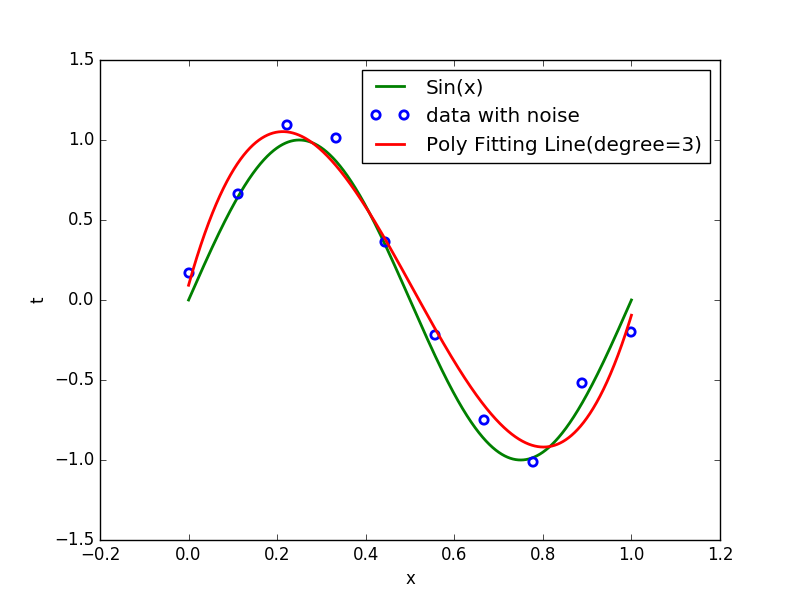
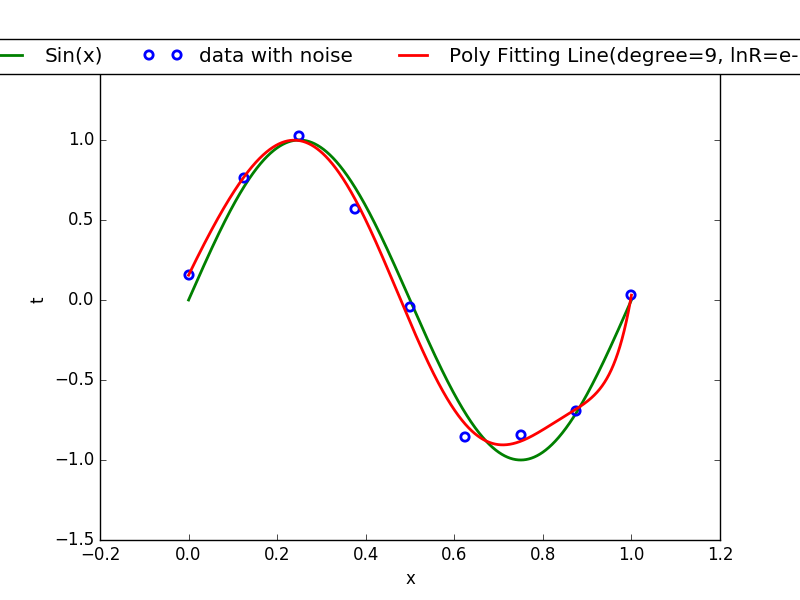
box_to_anchor
这个参数是用来调整存放示例说明与整个图表的相对位置，同时详细可以参照官网(http://matplotlib.org/1.5.1/api/pyp
lot_api.html#matplotlib.pyplot.legend)说明

Changed region(s): [[0.0, 0.06, 1.0, 0.42], [0.4062, 0.27, 0.8125, 0.78], [0.2188, 0.42, 0.25, 0.48]]

diff --git a/hw1.py b/hw1.py
@@ -48,7 +48,7 @@ po = np.poly1d(weight)          # 产生一个参数为weight的多项式
 new_x = np.linspace(0, 1, 1e4)
 plt.plot(new_x, po(new_x), '-r', label='Poly Fitting Line(degree=9, lnR=e-18)', linewidth=2)
 # 绘制图例说明,图例显示在图表的上方
-plt.legend(loc='upper center', bbox_to_anchor=(0.5, -0.03), fancybox=True, ncol=3)
+plt.legend(loc='lower center', bbox_to_anchor=(0.5, .95), fancybox=True, ncol=3)
 # 绘制后保存图
 plt.show()
 fig.savefig('poly_degree_9.png')
